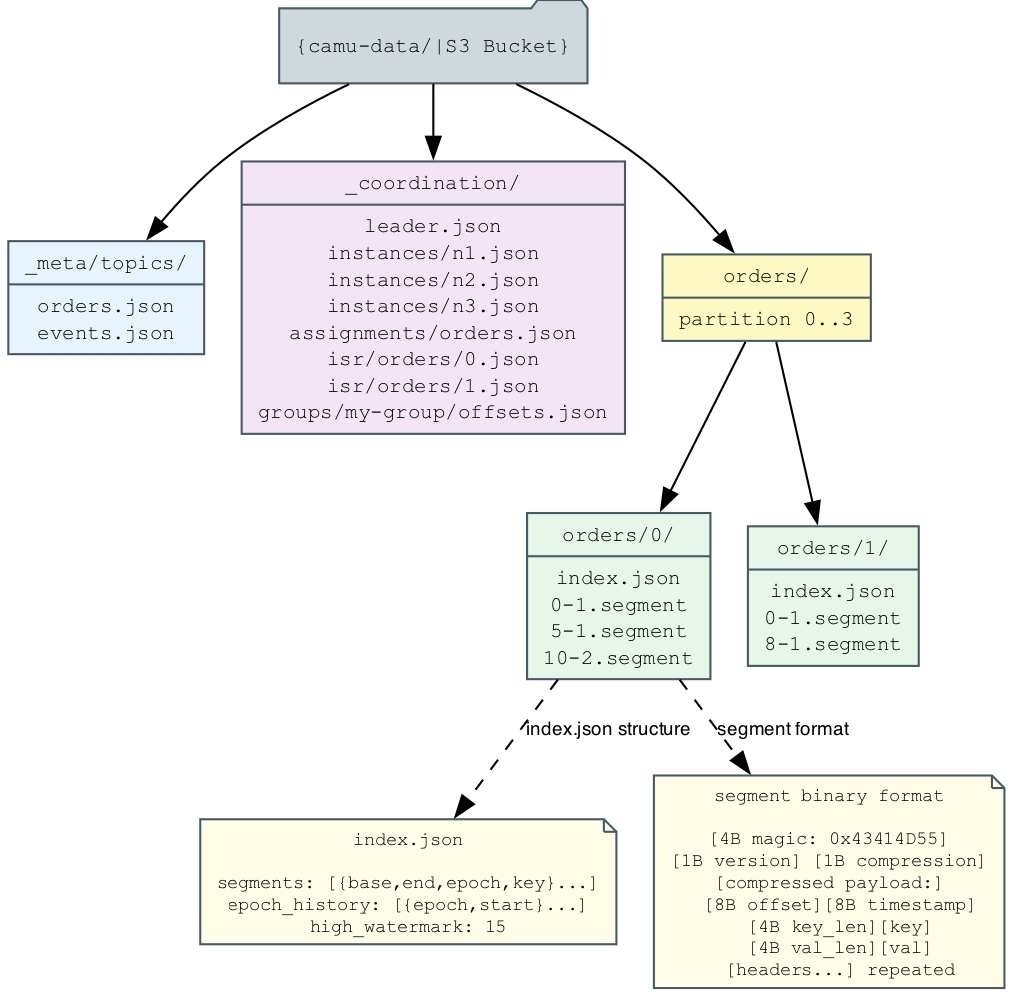
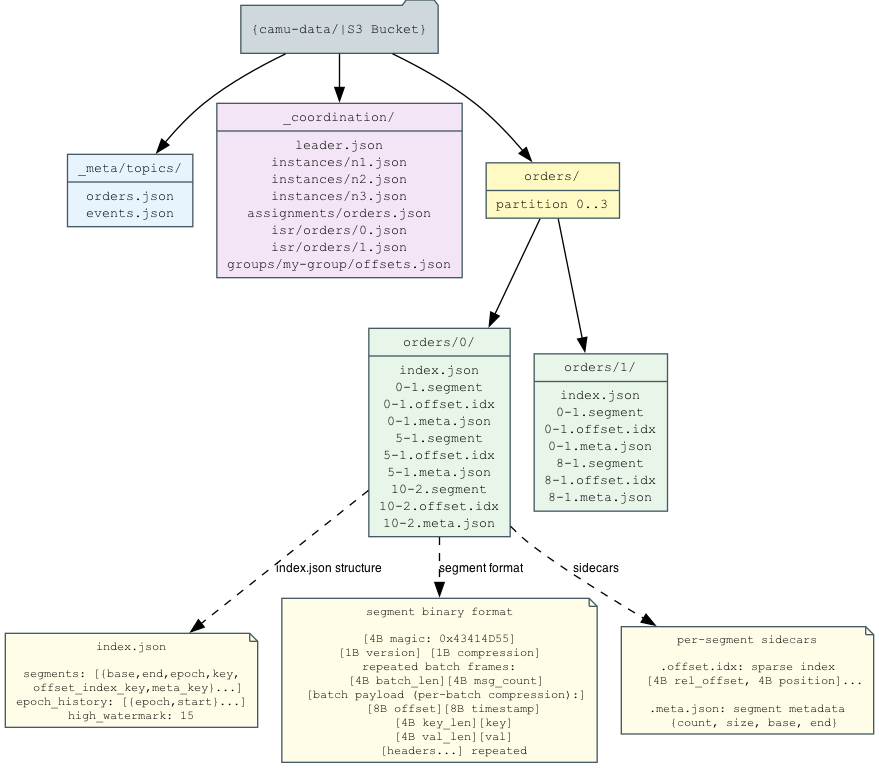
Update docs and diagrams for per-segment indexes and batch-framed segments
- README: index_interval_bytes is implemented, not planned
- architecture.md: S3 layout includes .offset.idx and .meta.json sidecars,
  segment format documents batch framing with per-batch compression,
  SegmentRef includes OffsetIndexKey and MetaKey fields, flush step
  describes sidecar uploads, read path explains in-segment sparse index
- multiple-indexes.md: mark offset index section as implemented
- s3-layout.dot: show sidecar files and updated binary format

diff --git a/docs/architecture.md b/docs/architecture.md
@@ -45,7 +45,7 @@ Camu is a Kafka-like commit log that uses S3 as its sole persistent backend. A s
 | **Partition** | Ordered, append-only log within a topic. Unit of parallelism and ownership. Identified by `{topic}/{partition_id}`. |
 | **Message** | Key (optional bytes), Value (bytes), Offset (uint64, server-assigned), Timestamp (unix nanos, server-assigned), Headers (map[string]string). |
 | **Segment** | Immutable batch of messages stored as a single S3 object. Binary format with optional compression. |
-| **Index** | Per-partition JSON file in S3 (`{topic}/{partition}/index.json`) mapping offset ranges to segment keys. |
+| **Index** | Per-partition JSON file in S3 (`{topic}/{partition}/index.json`) mapping offset ranges to segment keys. Each segment also has an `.offset.idx` sidecar for fast in-segment seeks and a `.meta.json` sidecar with record count and size. |
 | **Instance** | A running camu process. Owns a subset of partitions via S3-based leases. |
 
 ## S3 object layout
@@ -61,7 +61,9 @@ Camu is a Kafka-like commit log that uses S3 as its sole persistent backend. A s
 │   └── consumers/{consumerID}/offsets.json            # standalone consumer offsets
 └── {topic}/{partition}/
     ├── index.json                                     # sorted SegmentRef array
-    └── {baseOffset}-{epoch}.segment                   # immutable segment blob
+    ├── {baseOffset}-{epoch}.segment                   # immutable segment blob
+    ├── {baseOffset}-{epoch}.offset.idx                # sparse offset index sidecar
+    └── {baseOffset}-{epoch}.meta.json                 # segment metadata (count, size)
 ```
 
 ---
@@ -136,10 +138,10 @@ When the batcher triggers a flush:
 1. **Verify ownership from S3** — re-reads the partition assignment to confirm this instance still owns the partition. If ownership changed, the partition is revoked locally and the flush is skipped.
 2. **Seal the active chunk** — a fresh active chunk is created for new appends while the sealed chunk joins the flush set.
 3. **Replay sealed WAL chunks** — reads sealed chunks that are not yet marked flushed. The WAL remains the source of truth for unflushed data.
-4. **Serialize segment** — messages are serialized into the binary segment format and optionally compressed (snappy or zstd).
-5. **Upload segment to S3** — key: `{topic}/{partition}/{baseOffset}-{epoch}.segment`. The epoch embedded in the filename prevents stale writes after failover.
+4. **Serialize segment** — messages are serialized into batch-framed format (see below) and optionally compressed per-batch (snappy or zstd).
+5. **Upload segment and sidecars to S3** — the segment blob (`{baseOffset}-{epoch}.segment`), a sparse offset index (`.offset.idx`), and segment metadata (`.meta.json`) are uploaded together. The epoch embedded in filenames prevents stale writes after failover.
 6. **Write to disk cache** — the flushed segment is written to the local cache so the owning instance never needs to fetch its own segments back from S3.
-7. **Update index (CAS)** — the partition's `index.json` is read from S3 with its ETag, the new `SegmentRef` is appended, and a conditional PUT writes it back. If the ETag doesn't match (another instance modified the index concurrently), the operation retries up to 5 times with a fresh read.
+7. **Update index (CAS)** — the partition's `index.json` is read from S3 with its ETag, the new `SegmentRef` (including `OffsetIndexKey` and `MetaKey` pointers) is appended, and a conditional PUT writes it back. If the ETag doesn't match (another instance modified the index concurrently), the operation retries up to 5 times with a fresh read.
 8. **Mark chunks flushed-retained** — sealed chunks below the flushed end are renamed into flushed-retained WAL chunks. They stay readable to followers, but are excluded from unflushed replay on restart.
 9. **Prune by follower progress** — old flushed-retained chunks are deleted only after all followers have moved past them.
 
@@ -149,14 +151,17 @@ When the batcher triggers a flush:
 [4B magic: 0x43414D55 ("CAMU")]
 [1B version: 0x01]
 [1B compression: 0=none, 1=snappy, 2=zstd]
-[compressed payload]:
-  repeated message frames:
-    [8B offset (uint64 BE)]
-    [8B timestamp (int64 BE)]
-    [4B key_len][key bytes]
-    [4B value_len][value bytes]
-    [4B header_count]
-      per header: [4B key_len][key bytes][4B val_len][val bytes]
+repeated batch frames:
+  [4B batch_len]
+  [4B message_count]
+  [batch payload (compressed independently if compression != 0)]:
+    repeated message frames:
+      [8B offset (uint64 BE)]
+      [8B timestamp (int64 BE)]
+      [4B key_len][key bytes]
+      [4B value_len][value bytes]
+      [4B header_count]
+        per header: [4B key_len][key bytes][4B val_len][val bytes]
 ```
 
 Compression is applied to the entire payload (all frames together), not per-message.
@@ -193,15 +198,17 @@ Any instance can serve reads for any partition. For non-owned partitions, the ha
 
 ### 2. Index lookup
 
-The index is a sorted array of `SegmentRef` entries. Lookup uses `sort.Search` (binary search) to find the segment whose `[BaseOffset, EndOffset]` range contains the requested offset. Time complexity: O(log N) where N is the number of segments.
+The index is a sorted array of `SegmentRef` entries. Lookup uses `sort.Search` (binary search) to find the segment whose `[BaseOffset, EndOffset]` range contains the requested offset. Time complexity: O(log N) where N is the number of segments. Once the segment is located, the per-segment `.offset.idx` sidecar (sparse Kafka-style index of `[4B relative_offset, 4B position]` entries) is fetched and cached to seek directly to the nearest batch boundary within the segment, avoiding a full scan.
 
 ```go
 type SegmentRef struct {
-    BaseOffset uint64
-    EndOffset  uint64
-    Epoch      uint64
-    Key        string    // S3 key
-    CreatedAt  time.Time
+    BaseOffset     uint64
+    EndOffset      uint64
+    Epoch          uint64
+    Key            string    // S3 segment key
+    OffsetIndexKey string    // S3 key for .offset.idx sidecar
+    MetaKey        string    // S3 key for .meta.json sidecar
+    CreatedAt      time.Time
 }
 ```
 

diff --git a/README.md b/README.md
@@ -169,7 +169,7 @@ See [`camu.yaml.example`](camu.yaml.example) for all options.
 | `segments.max_age` | 5s | Flush time threshold |
 | `segments.compression` | `none` | Record-batch compression: `none`, `snappy`, or `zstd` |
 | `segments.record_batch_target_size` | 16KB | Target uncompressed on-disk record-batch size inside a segment |
-| `segments.index_interval_bytes` | 4KB | Planned sparse per-segment offset index cadence |
+| `segments.index_interval_bytes` | 4KB | Sparse per-segment offset index cadence |
 | `cache.max_size` | 10GB | Disk cache LRU limit |
 | `coordination.lease_ttl` | 30s | Lease TTL |
 | `coordination.instance_ttl` | `lease_ttl * 3` | Instance liveness TTL used for active membership |

diff --git a/docs/multiple-indexes.md b/docs/multiple-indexes.md
@@ -78,23 +78,23 @@ Implemented so far on this branch:
 
 Still missing:
 
-- manifest/head replacement for `index.json`
+- manifest/head replacement for `index.json` (partition-level index is still a single CAS-updated JSON file)
 - mmap-backed index loading
 
-### Offset index
+### Offset index (implemented)
 
-Kafka's key idea is:
+Follows Kafka's key idea:
 
 - the partition first picks the right segment by base offset
 - then a per-segment sparse index maps relative offsets to byte positions in that segment
 
-Suggested file:
+File:
 
 ```text
 {baseOffset}-{epoch}.offset.idx
 ```
 
-Kafka-style entry format:
+Entry format:
 
 ```text
 [4B relative_offset][4B position]
